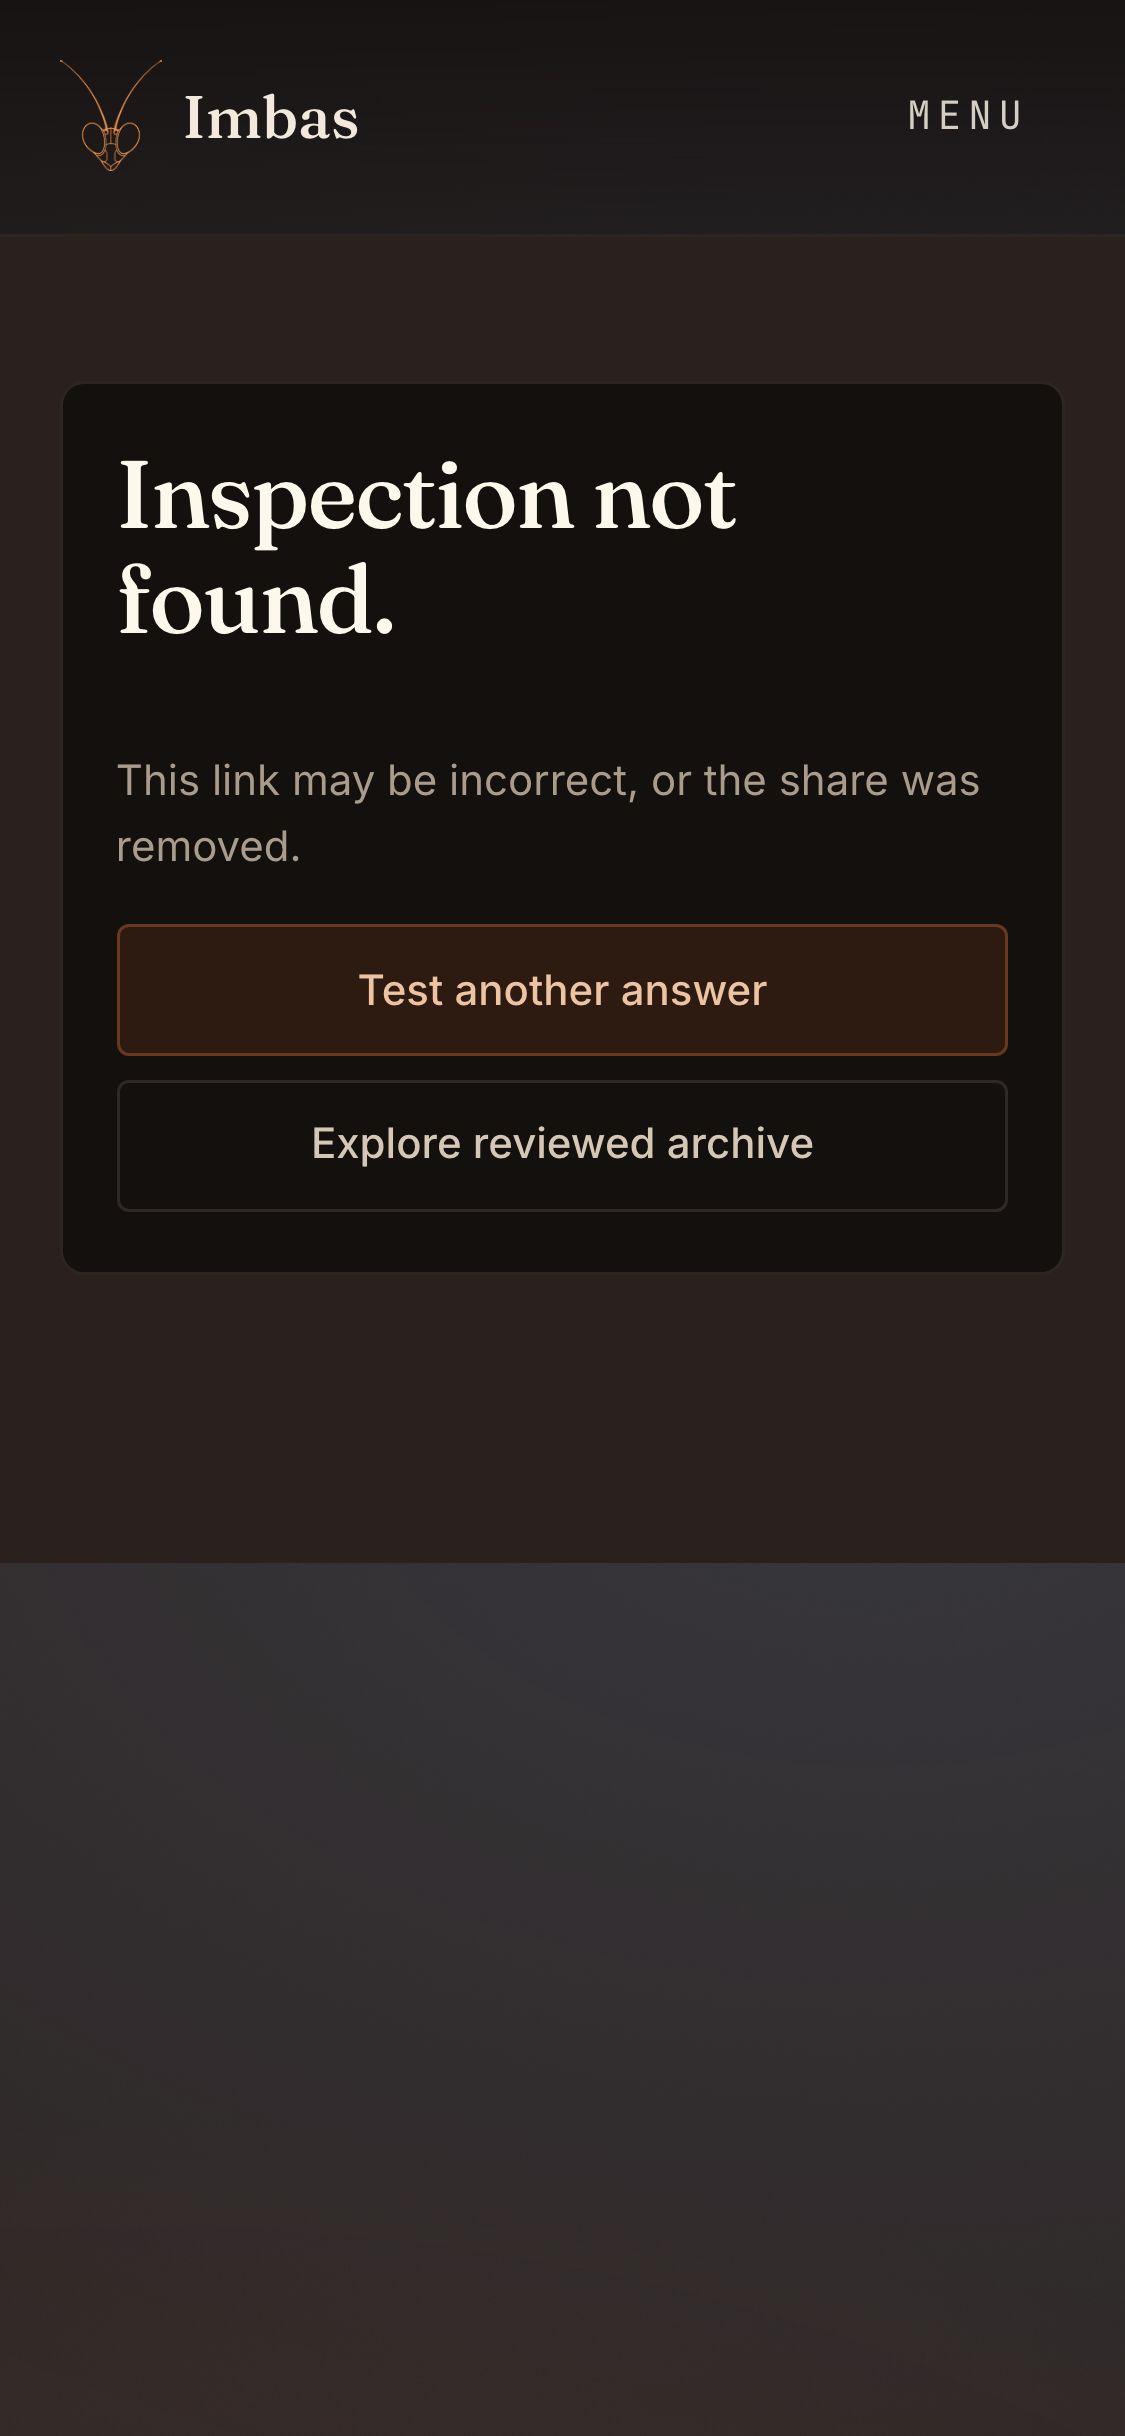
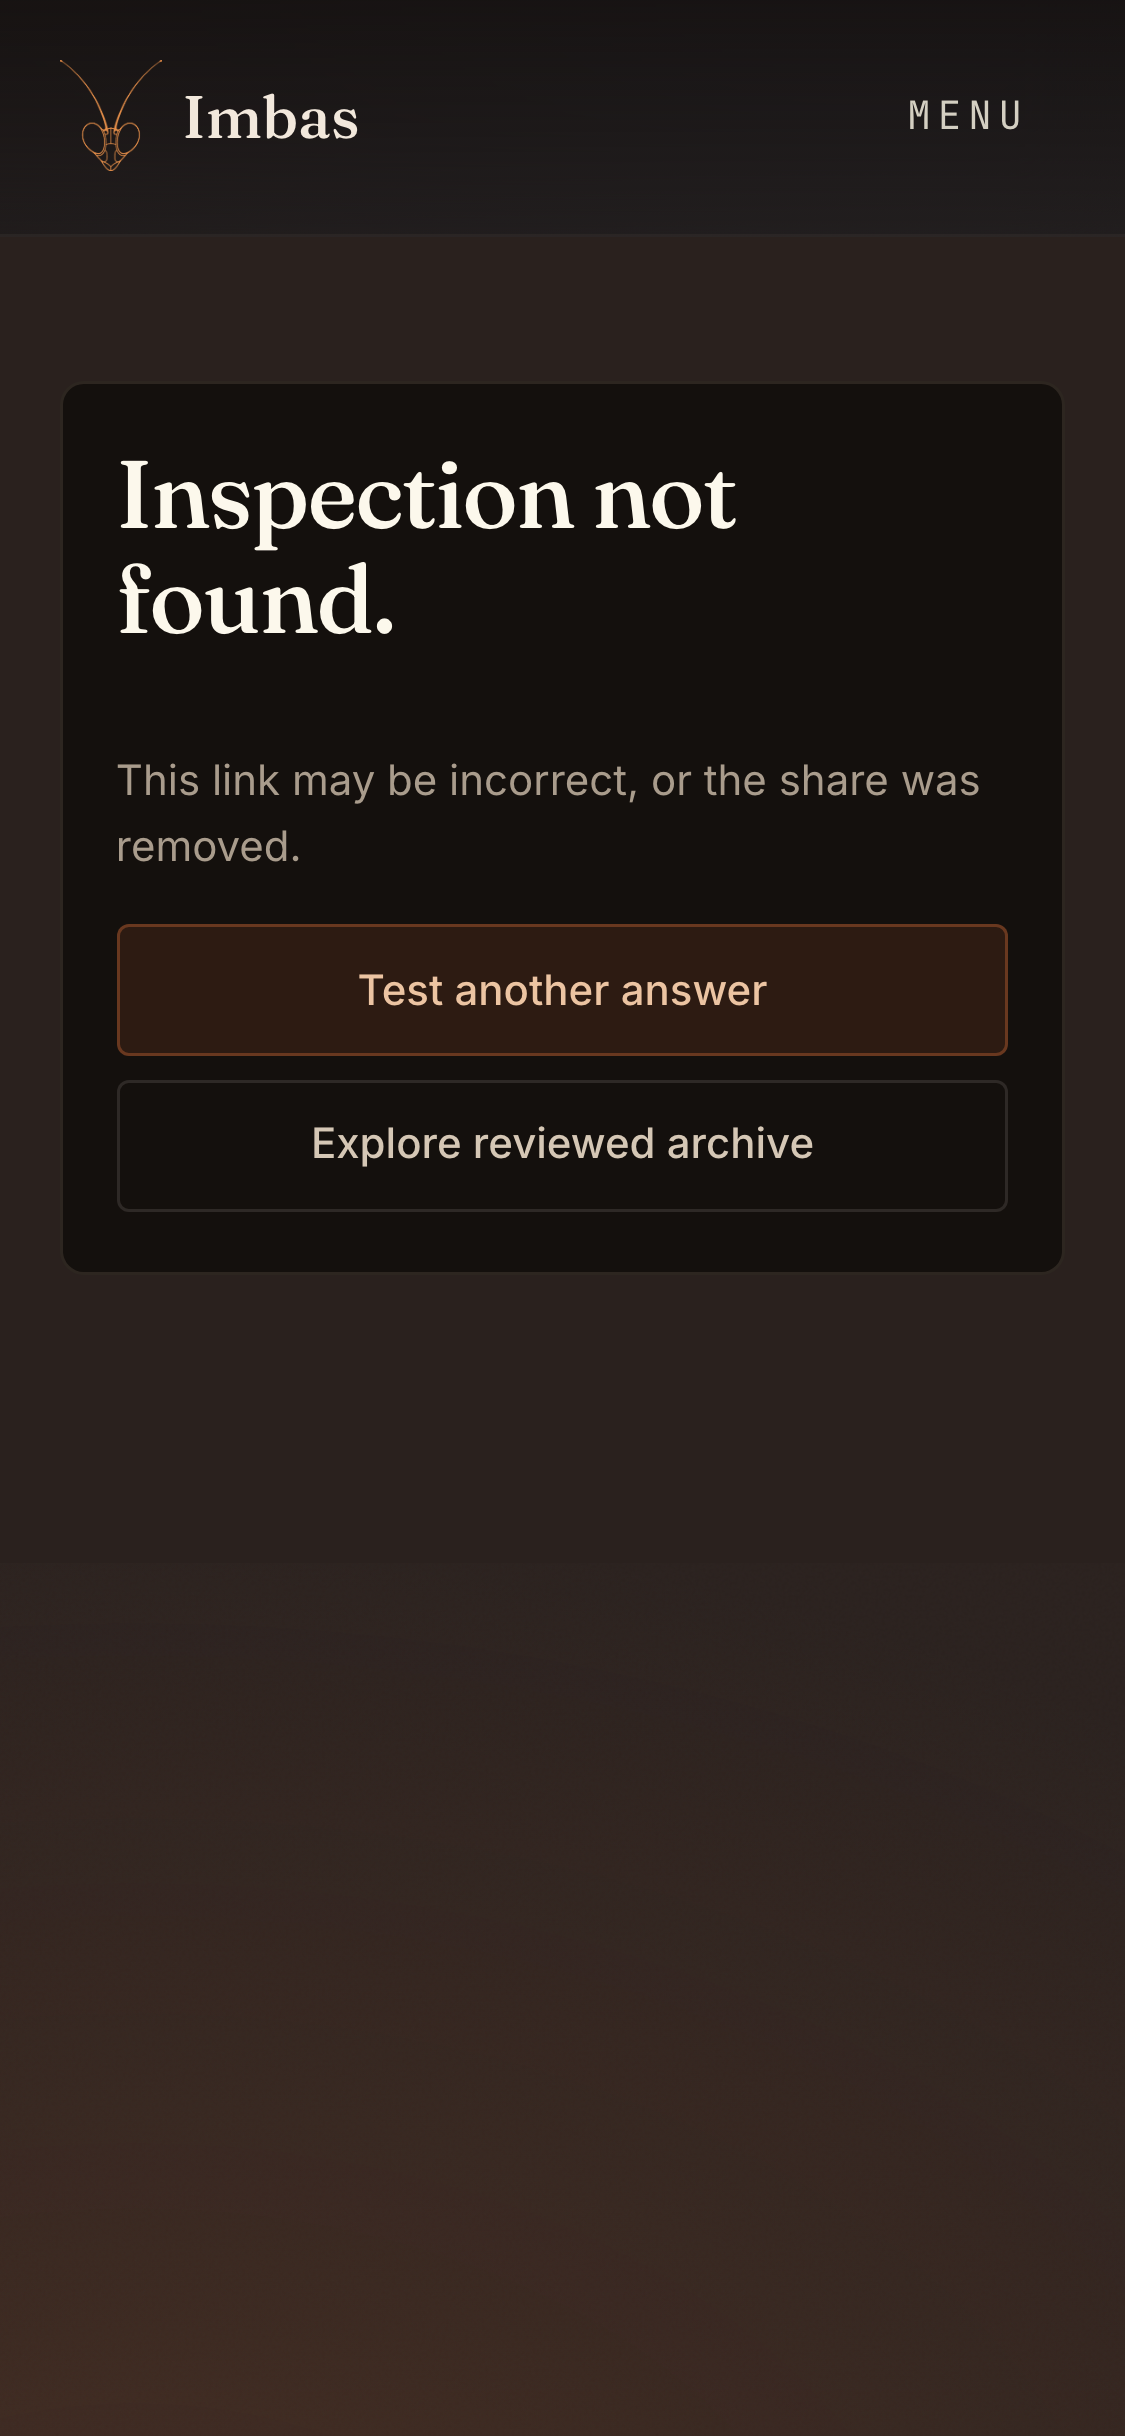
Anchor the mobile ambient gradients to the viewport
THE MECHANISM. At mobile the body carried background-attachment: scroll, so
the two ambient radial gradients positioned against the document box rather
than the viewport. Any change to document length moved the gradient beneath
the viewport-sticky masthead, the masthead's backdrop-filter resampled it,
and the masthead re-rasterised. Every content edit anywhere on a page could
therefore force a baseline re-acceptance for reasons that had nothing to do
with the edit. Desktop already used fixed, anchored to the viewport, and was
never affected.

THE FIX. The mobile ambient gradients now render from body::before, a
viewport-fixed layer at z-index -1 whose geometry is independent of document
height. The gradients keep their existing tokens, order and opacity exactly.
The layer has zero document height, no pointer events, and no accessibility
object, and a CSS pseudo-element does not enter the accessibility tree.
Desktop keeps background-attachment: fixed and is untouched. This lane did
not use background-attachment: fixed at mobile, because that would have
needed iOS Safari validation this branch does not carry.

THE PAINT ORDER IS PRESERVED. The gradients move from CSS 2.1 Appendix E
step 1, the canvas background, to step 2, a negative-z-index descendant.
That is the same slot relative to everything functional: above the ground
colour, below every element background. Nothing else changed its blend mode,
[…]

Changed region(s): [[0.4978, 0.624, 1.0, 0.6864]]

diff --git a/styles.css b/styles.css
@@ -4595,7 +4595,23 @@ body:has(main > section.hero) .nav__menu-btn {
 }
 
 @media (max-width: 768px) {
-  body { background-attachment: scroll; }
+  /* The ambient gradients render from a viewport-fixed layer here rather than from
+     the body background. Attached to the document box, they re-rasterised under the
+     sticky masthead's backdrop-filter whenever page length changed, so every content
+     edit forced a baseline re-acceptance. Same two gradients in the same order, and
+     the same slot in the paint order: above the canvas colour, below every element
+     background. Desktop keeps background-attachment: fixed and is unaffected. */
+  body { background-image: none; }
+  body::before {
+    content: "";
+    position: fixed;
+    inset: 0;
+    z-index: -1;
+    pointer-events: none;
+    background-image:
+      radial-gradient(1200px 800px at 78% -10%, var(--slate-glow), transparent 60%),
+      radial-gradient(900px 600px at 12% 110%, var(--ember-trace), transparent 65%);
+  }
   .field-noise::before,
   .field-noise::after {
     filter: blur(72px);

diff --git a/docs/qa/visual-acceptance-harness/manifest.md b/docs/qa/visual-acceptance-harness/manifest.md
@@ -782,8 +782,8 @@ A board that lists only what it covers reads as complete. These are the result s
 
 | field | value |
 | --- | --- |
[1 lines of base64/hex data omitted]
-| bytes | 319359 |
[1 lines of base64/hex data omitted]
+| bytes | 322092 |
 | snapshot | `share-legacy--mobile.snapshot.txt` |
[1 lines of base64/hex data omitted]
 | snapshot bytes | 6162 |
@@ -814,8 +814,8 @@ A board that lists only what it covers reads as complete. These are the result s
 
 | field | value |
 | --- | --- |
[1 lines of base64/hex data omitted]
-| bytes | 963393 |
[1 lines of base64/hex data omitted]
+| bytes | 921041 |
 | snapshot | `share-not-found--mobile.snapshot.txt` |
[1 lines of base64/hex data omitted]
 | snapshot bytes | 976 |
@@ -846,8 +846,8 @@ A board that lists only what it covers reads as complete. These are the result s
 
 | field | value |
 | --- | --- |
[1 lines of base64/hex data omitted]
-| bytes | 313447 |
[1 lines of base64/hex data omitted]
+| bytes | 316262 |
 | snapshot | `share-paired-no-model--mobile.snapshot.txt` |
[1 lines of base64/hex data omitted]
 | snapshot bytes | 5957 |
@@ -910,8 +910,8 @@ A board that lists only what it covers reads as complete. These are the result s
 
 | field | value |
 | --- | --- |
[1 lines of base64/hex data omitted]
-| bytes | 305082 |
[1 lines of base64/hex data omitted]
+| bytes | 307823 |
 | snapshot | `share-single--mobile.snapshot.txt` |
[1 lines of base64/hex data omitted]
 | snapshot bytes | 5922 |
